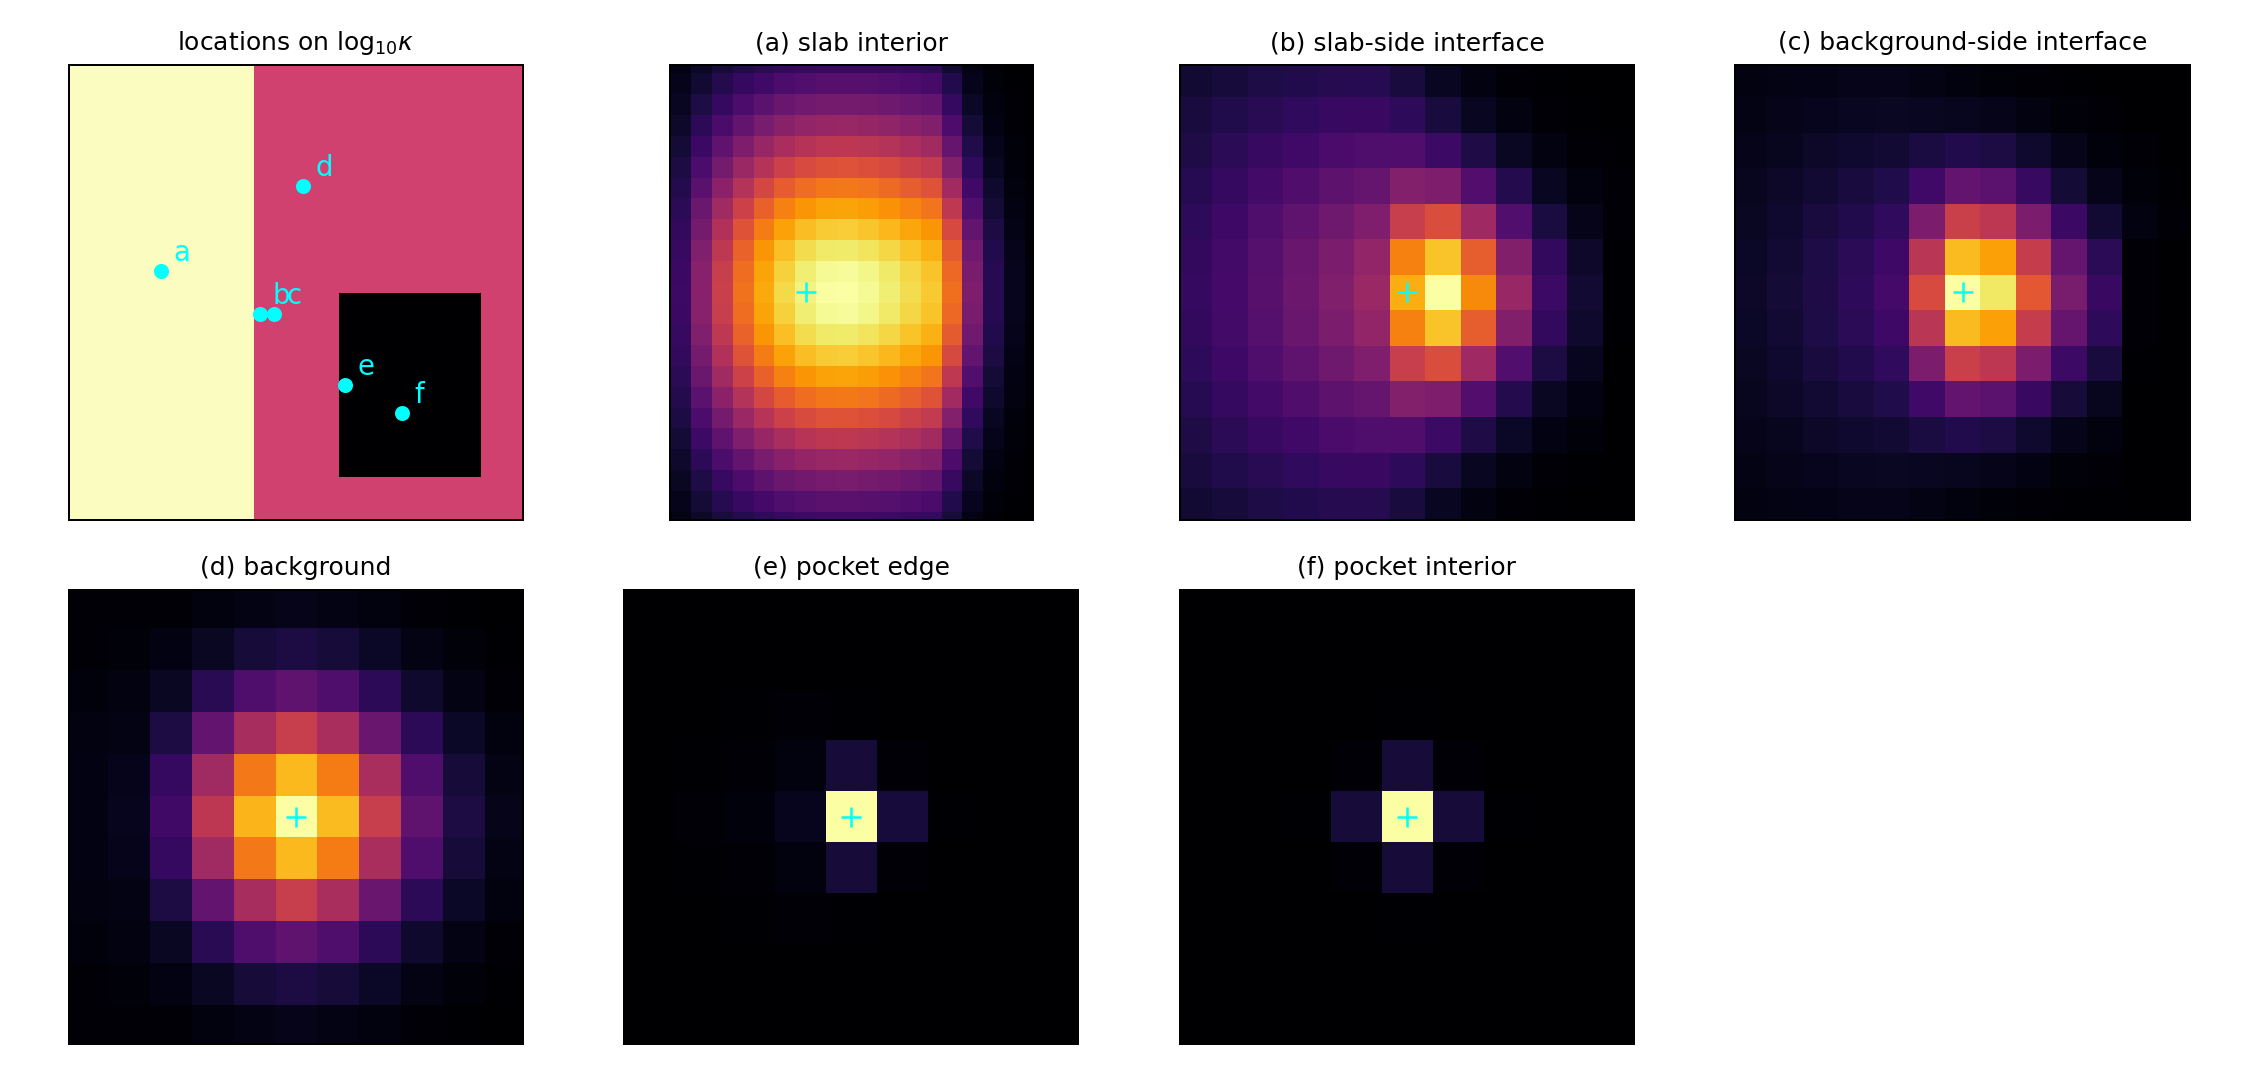
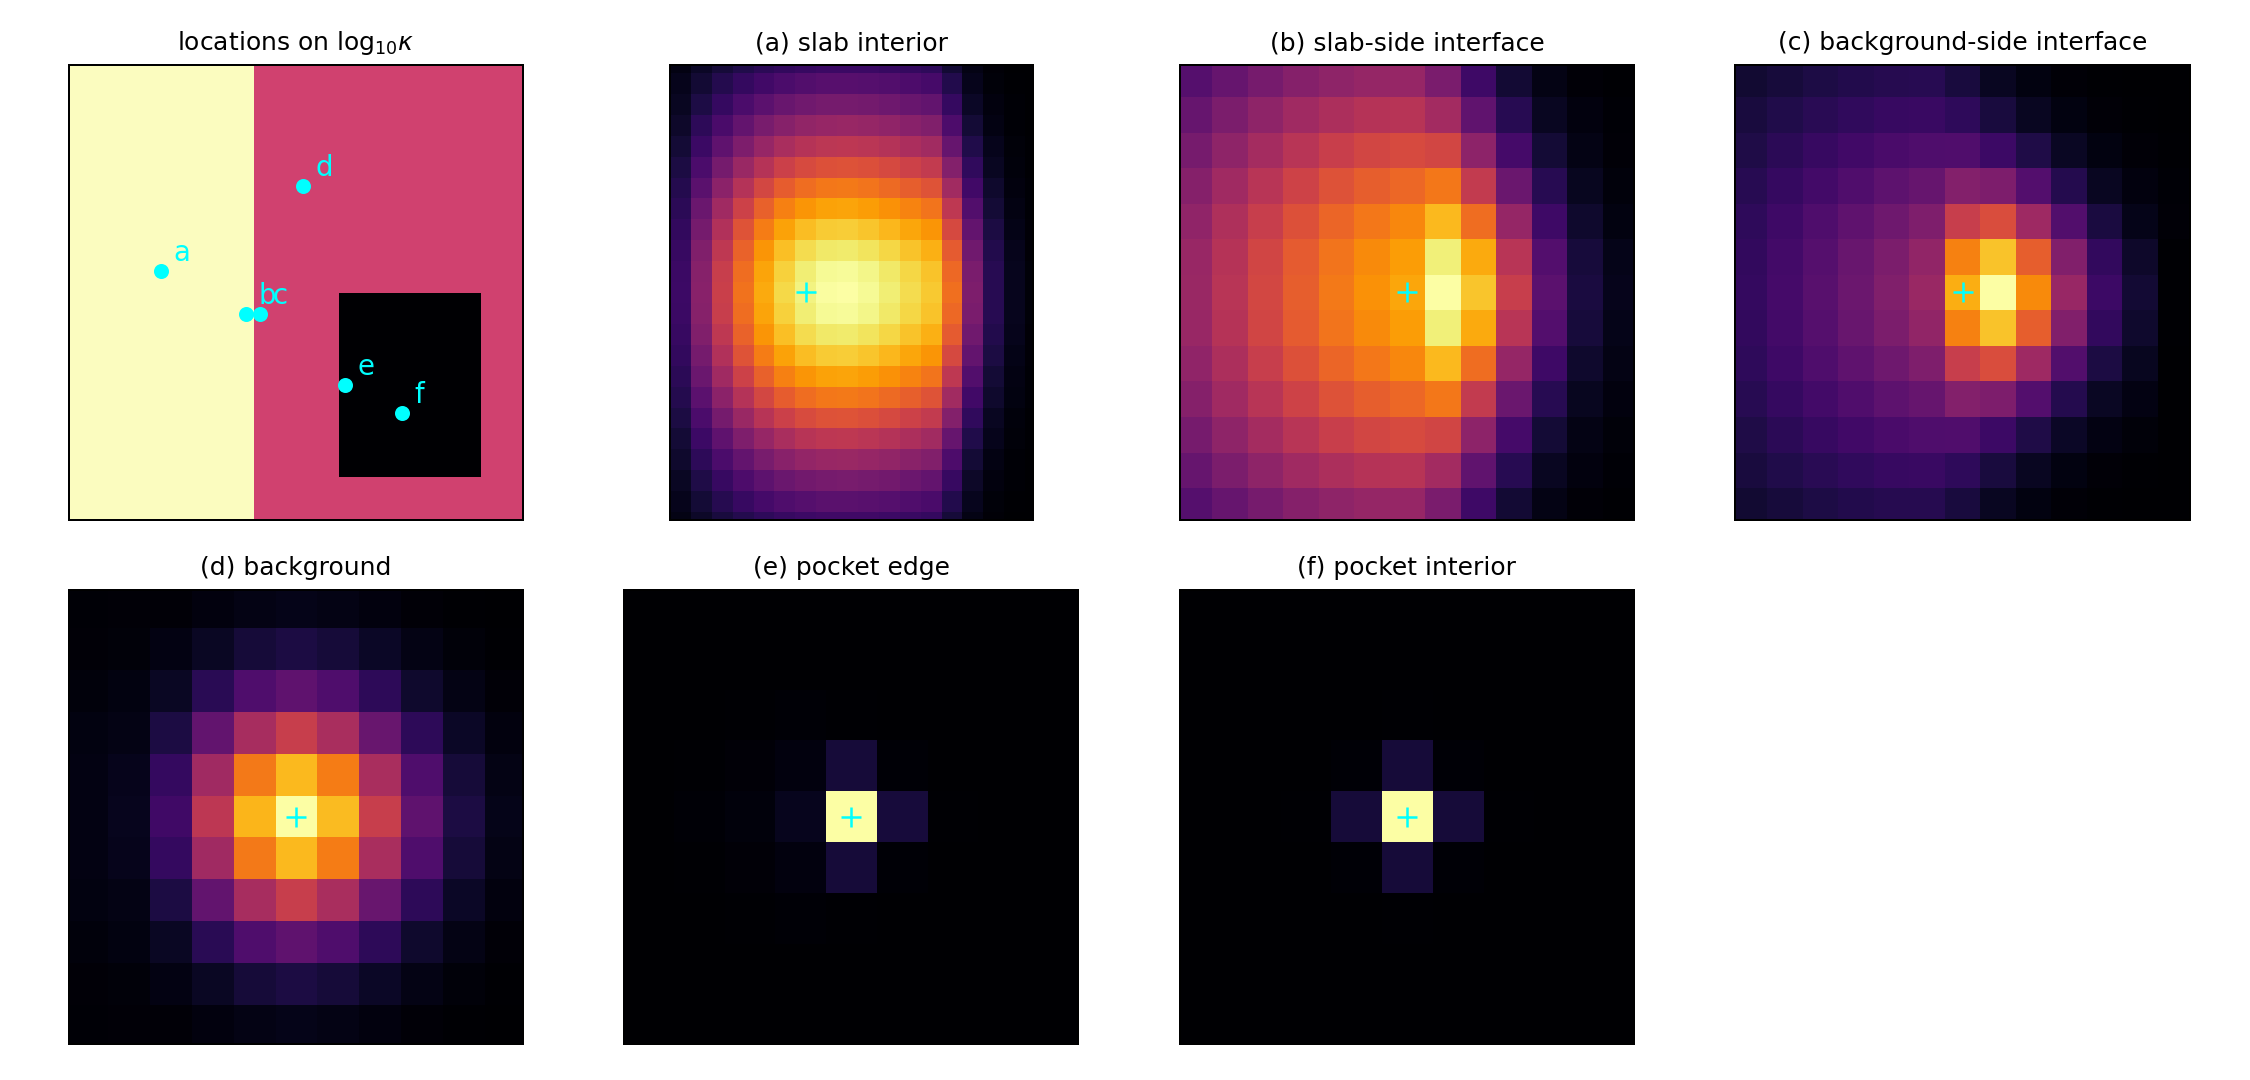
Heat mini-paper slice 2: the fit ladder and the interface-row figure
Item 5 of the tutorial: fits at k = 10/20/50/150 (the examples' validated
config, weighted-symmetrized, cached under cache/ with their probe pairs
for the corrections slices to archive), the truth-vs-fits figure at a
slab-side interface row chosen to TRACK THE INTERFACE MEDIAN at every
budget, and the held-out QC table by region (overall median 0.30 -> 0.06;
interfaces and the slab are the expensive rows, pocket spikes are free).

Choosing the row surfaced two things worth recording: ~3% of interface
rows regress at k = 20 (a rung admitted before its coefficients are
pinned down -- the held-out score flags it, and the code comment says so),
and slice 1's interface spots were mislabeled at grid 32 (the band cells
are x = 0.391 and 0.422; the old "background-side" spot was one cell off
the interface entirely). Both interface panels of psfs.png re-anchored.

Claude-Session: https://claude.ai/code/session_01R17UG1VLcucQNKZCZRFP8A

Changed region(s): [[0.4978, 0.0611, 0.7156, 0.4889], [0.7467, 0.0611, 0.9644, 0.4889], [0.0933, 0.275, 0.1244, 0.3056]]

diff --git a/docs/heat-pipeline/make_figures.py b/docs/heat-pipeline/make_figures.py
@@ -10,11 +10,13 @@ The problem is `examples/heat_inversion.py` at grid = 32 (n = 1024).
 Stages map to the paper's items and run independently:
 
     python make_figures.py --items problem,psfs     # slice 1: items 1-4
+    python make_figures.py --items fit              # slice 2: item 5 + QC
 
 Environment: numpy + scipy + matplotlib for the early items (the `tttt`
 env on the maintainer's machine); the fitting items additionally need the
 lgpsf bindings on PYTHONPATH (rebuild `build-py39` at library tip for the
-matplotlib-bearing environment).
+matplotlib-bearing environment). Fits are cached under `cache/` (not
+committed); delete it to regenerate everything from scratch.
 """
 import argparse
 import os
@@ -24,15 +26,20 @@ import matplotlib
 matplotlib.use("Agg")
 import matplotlib.pyplot as plt
 import numpy as np
+import scipy.sparse as sp
 
 HERE = os.path.dirname(os.path.abspath(__file__))
 sys.path.insert(0, os.path.join(HERE, "..", "..", "examples"))
-from heat_inversion import build_problem, conductivity, regions  # noqa: E402
+from heat_inversion import (build_problem, conductivity, probes,  # noqa: E402
+                            regions)
 
 FIG = os.path.join(HERE, "figures")
+CACHE = os.path.join(HERE, "cache")
 GRID = 32
 NOISE = 0.015          # relative noise on the observed final-time field
 SEED = 20260803
+KS = (10, 20, 50, 150)  # the probe-budget ladder (items 5 and 8)
+QC_SEED = 101           # held-out probes: never the fitter's seed
 
 
 def problem_instance():
@@ -118,8 +125,8 @@ def item_psfs(problem):
 
     spots = [  # (label, index, zoom half-width)
         ("slab interior", nearest(0.20, 0.55), 0.34),
-        ("slab-side interface", nearest(0.41, 0.45), 0.20),
-        ("background-side interface", nearest(0.44, 0.45), 0.20),
+        ("slab-side interface", nearest(0.39, 0.45), 0.20),
+        ("background-side interface", nearest(0.42, 0.45), 0.20),
         ("background", nearest(0.52, 0.75), 0.17),
         ("pocket edge", nearest(0.60, 0.30), 0.14),
         ("pocket interior", nearest(0.75, 0.25), 0.14),
@@ -158,6 +165,116 @@ def item_psfs(problem):
     print("wrote figures/psfs.png")
 
 
+def fitted_operator(problem, k):
+    """The paper's fit at probe budget k, cached on disk together with its
+    probe pairs (the corrections layer archives those later)."""
+    path = os.path.join(CACHE, f"fit_k{k}.npz")
+    if os.path.exists(path):
+        blob = np.load(path)
+        B = sp.csr_matrix((blob["data"], blob["indices"], blob["indptr"]),
+                          shape=tuple(blob["shape"]))
+        return B, blob["V"], blob["HV"]
+
+    # snippet:fit
+    # The fitter's entire budget: k random probes and their Hessian
+    # applies. Each response costs one H_d application (two PDE solves);
+    # nothing else about H_d is ever observed.
+    import lgpsf
+    V, HV = probes(problem, k)
+    config = lgpsf.OperatorFitConfig()
+    config.tau_window = 3.0
+    config.row.mode_policy = lgpsf.ShellLadder([0, 1, 2, 3, 4])
+    config.row.target_score = None
+    fit = lgpsf.fit_operator(problem["x"], problem["mass"], problem["mass"],
+                             V, HV, problem["sigma"], config=config)
+    B = lgpsf.assemble_sparse(fit.model, 6.0, lgpsf.Symmetrize.Weighted)
+    # end snippet
+
+    B = sp.csr_matrix(B)
+    os.makedirs(CACHE, exist_ok=True)
+    np.savez_compressed(path, data=B.data, indices=B.indices,
+                        indptr=B.indptr, shape=np.array(B.shape),
+                        V=V, HV=HV)
+    return B, V, HV
+
+
+def item_fit(problem):
+    """Item 5: one interface PSF against its fits as the budget grows,
+    plus the held-out QC table by region."""
+    # A slab-side interface row, chosen because its held-out scores track
+    # the interface-region MEDIAN at every budget -- a representative hard
+    # row, not a best case. (Individual rows are not guaranteed monotone
+    # in k; the QC score is what flags the exceptions.)
+    x = problem["x"]
+    idx = int(np.argmin((x[0] - 0.39) ** 2 + (x[1] - 0.58) ** 2))
+    truth_row = problem["H"][idx]
+
+    # snippet:qc
+    # Held-out quality control: score the assembled operator's rows
+    # against probes the fitter never saw (the same referee the library
+    # uses internally, applied to the deployed object).
+    V_qc, HV_qc = probes(problem, 30, seed=QC_SEED)
+    def qc_scores(B):
+        residual = np.linalg.norm(B @ V_qc.T - HV_qc.T, axis=1)
+        return residual / np.linalg.norm(HV_qc.T, axis=1)
+    # end snippet
+
+    fits, scores = {}, {}
+    for k in KS:
+        fits[k], _, _ = fitted_operator(problem, k)
+        scores[k] = qc_scores(fits[k])
+
+    # -- the figure: truth vs fits at the slab-side interface row ---------
+    fig, axes = plt.subplots(1, 1 + len(KS), figsize=(14.5, 3.1),
+                             constrained_layout=True)
+    vmax = np.abs(truth_row).max()          # one scale, anchored to truth
+    panels = [("sampled row (truth)", truth_row, None)]
+    panels += [(f"fit, k = {k}", np.asarray(fits[k][idx].todense()).ravel(),
+                scores[k][idx]) for k in KS]
+    pad = 0.20
+    for ax, (title, row, q) in zip(axes, panels):
+        img = row.reshape(GRID, GRID).T
+        handle = ax.imshow(img, origin="lower", extent=(0, 1, 0, 1),
+                           cmap="RdBu_r", vmin=-vmax, vmax=vmax)
+        ax.plot(x[0, idx], x[1, idx], "+", color="k", markersize=8)
+        ax.set_xlim(x[0, idx] - pad, x[0, idx] + pad)
+        ax.set_ylim(x[1, idx] - pad, x[1, idx] + pad)
+        label = title if q is None else f"{title}  (row QC {q:.2f})"
+        ax.set_title(label, fontsize=9)
+        ax.set_xticks([])
+        ax.set_yticks([])
+    fig.colorbar(handle, ax=axes, fraction=0.02, pad=0.02)
+    fig.savefig(os.path.join(FIG, "psf_fit.png"), dpi=180)
+    plt.close(fig)
+    print("wrote figures/psf_fit.png")
+
+    # -- the QC table: median held-out score per region, per budget -------
+    masks = regions(problem)
+    order = ["slab", "interface", "background", "pocket"]
+    print(f"{'k':>5}  " + "".join(f"{name:>11}" for name in order)
+          + f"{'overall':>11}")
+    rows = []
+    for k in KS:
+        q = scores[k]
+        cells = [np.median(q[masks[name]]) for name in order]
+        cells.append(np.median(q))
+        rows.append((k, cells))
+        print(f"{k:>5}  " + "".join(f"{c:>11.3f}" for c in cells))
+
+    out = os.path.join(HERE, "snippets")
+    os.makedirs(out, exist_ok=True)
+    with open(os.path.join(out, "qc_table.tex"), "w") as handle:
+        handle.write("\\begin{tabular}{r cccc c}\n\\hline\n")
+        handle.write("$k$ & " + " & ".join(order)
+                     + " & overall \\\\\n\\hline\n")
+        for k, cells in rows:
+            handle.write(f"{k} & "
+                         + " & ".join(f"{c:.3f}" for c in cells)
+                         + " \\\\\n")
+        handle.write("\\hline\n\\end{tabular}\n")
+    print("wrote snippets/qc_table.tex")
+
+
 def extract_snippets():
     """Write snippets/<name>.tex from the markers in this file."""
     out = os.path.join(HERE, "snippets")
@@ -183,12 +300,12 @@ def extract_snippets():
 
 def main():
     parser = argparse.ArgumentParser()
-    parser.add_argument("--items", default="problem,psfs")
+    parser.add_argument("--items", default="problem,psfs,fit")
     args = parser.parse_args()
     os.makedirs(FIG, exist_ok=True)
 
     problem = problem_instance()
-    stages = {"problem": item_problem, "psfs": item_psfs}
+    stages = {"problem": item_problem, "psfs": item_psfs, "fit": item_fit}
     for item in args.items.split(","):
         stages[item](problem)
     extract_snippets()

diff --git a/docs/heat-pipeline/snippets/fit.tex b/docs/heat-pipeline/snippets/fit.tex
@@ -1,0 +1,14 @@
+\begin{verbatim}
+# The fitter's entire budget: k random probes and their Hessian
+# applies. Each response costs one H_d application (two PDE solves);
+# nothing else about H_d is ever observed.
+import lgpsf
+V, HV = probes(problem, k)
+config = lgpsf.OperatorFitConfig()
+config.tau_window = 3.0
+config.row.mode_policy = lgpsf.ShellLadder([0, 1, 2, 3, 4])
+config.row.target_score = None
+fit = lgpsf.fit_operator(problem["x"], problem["mass"], problem["mass"],
+                         V, HV, problem["sigma"], config=config)
+B = lgpsf.assemble_sparse(fit.model, 6.0, lgpsf.Symmetrize.Weighted)
+\end{verbatim}

diff --git a/docs/heat-pipeline/snippets/qc.tex b/docs/heat-pipeline/snippets/qc.tex
@@ -1,0 +1,9 @@
+\begin{verbatim}
+# Held-out quality control: score the assembled operator's rows
+# against probes the fitter never saw (the same referee the library
+# uses internally, applied to the deployed object).
+V_qc, HV_qc = probes(problem, 30, seed=QC_SEED)
+def qc_scores(B):
+    residual = np.linalg.norm(B @ V_qc.T - HV_qc.T, axis=1)
+    return residual / np.linalg.norm(HV_qc.T, axis=1)
+\end{verbatim}

diff --git a/docs/heat-pipeline/snippets/qc_table.tex b/docs/heat-pipeline/snippets/qc_table.tex
@@ -1,0 +1,10 @@
+\begin{tabular}{r cccc c}
+\hline
+$k$ & slab & interface & background & pocket & overall \\
+\hline
+10 & 0.440 & 0.388 & 0.163 & 0.019 & 0.303 \\
+20 & 0.163 & 0.195 & 0.074 & 0.012 & 0.132 \\
+50 & 0.086 & 0.104 & 0.039 & 0.006 & 0.072 \\
+150 & 0.071 & 0.082 & 0.027 & 0.005 & 0.057 \\
+\hline
+\end{tabular}

diff --git a/dev/HANDOFF.md b/dev/HANDOFF.md
@@ -24,7 +24,7 @@ narrative and open items only; when a thread closes, its record moves to
 | Fitting speed | **~4.5× faster than 0.1.0** at unchanged accuracy — see below |
 | Pencil corrections layer | **COMPLETE — all 12 slices landed** (implementation 2026-07-31/08-01; PIG validation 2026-08-03: flip counts 1438 Euclidean vs 14 pencil, free deflation 35→23 vs recorded 34→22, value pass 6/12/18 matching the offline prediction exactly, true-pair fold 6/13/19 vs in-ymir 5/12/18) (`Symmetrize::Weighted` 2026-07-31; boundary, `ModeBlock`, `ShiftedOperator` + GLR Woodbury, pencil Lanczos + `make_pd`, zones + both solve modes, both deflations, rebuild_at, and the Cholesky backend 2026-08-01) — full implementation plan in [`pencil-corrections-plan.md`](pencil-corrections-plan.md); the layer is operator-blind (matvec-only) in `include/lgpsf/corrections/`, a sibling of the fit stack |
 | Corrections examples | **landed 2026-08-03** — `heat_inversion.py` (shared PDE problem) + 4 lessons in pipeline order; writing them caught two library defects (see design-notes 2026-08-03) |
-| Heat mini-paper | **slice 1 of 6 landed** (driver skeleton `docs/heat-pipeline/make_figures.py` under the `tttt` env; problem/psfs figures + snippet extraction working; grid 32, noise 1.5%, seed 20260803; NOTE for slices 2+: rebuild `build-py39` bindings at tip for the matplotlib env). Plan — [`heat-mini-paper-plan.md`](heat-mini-paper-plan.md) has every decision (grid 32; noisy data shown; title "LGPSF Heat Inverse Problem Tutorial"; item 8 = three-figure spectrum progression, Fig 8b one-sided singular values for all three curves; cost table = probes vs preconditioned condition number). Next: slice 1 of its slice list (driver skeleton + items 2–4 figures) in `docs/heat-pipeline/` |
+| Heat mini-paper | **slice 2 of 6 landed** (`docs/heat-pipeline/make_figures.py` under the `tttt` env with `build-py39/bindings` on PYTHONPATH; grid 32, noise 1.5%, seed 20260803). Slice 1: problem/psfs figures + snippet extraction. Slice 2: fit ladder k = 10/20/50/150 (weighted-symmetrized, cached in `cache/`, probe pairs saved for the corrections slices), item-5 figure `psf_fit.png` (slab-side interface row chosen median-representative; ~3% of interface rows regress at k = 20 — QC catches them), held-out QC table by region (`snippets/qc_table.tex`; overall median 0.30→0.06). Also fixed slice-1 interface spot labels (at grid 32 the band cells are x = 0.391/0.422). Plan — [`heat-mini-paper-plan.md`](heat-mini-paper-plan.md) has every decision (title "LGPSF Heat Inverse Problem Tutorial"; item 8 = three-figure spectrum progression, Fig 8b one-sided singular values for all three curves; cost table = probes vs preconditioned condition number). Next: slice 3 — the build (make_pd + value_pass + cache) and the a-sweep, items 6–7 (L-curve, reconstructions) |
 | **Not done** | **CI, cibuildwheel, M6 release infra** |
 
 ## Fitting defaults changed, 2026-07-28
